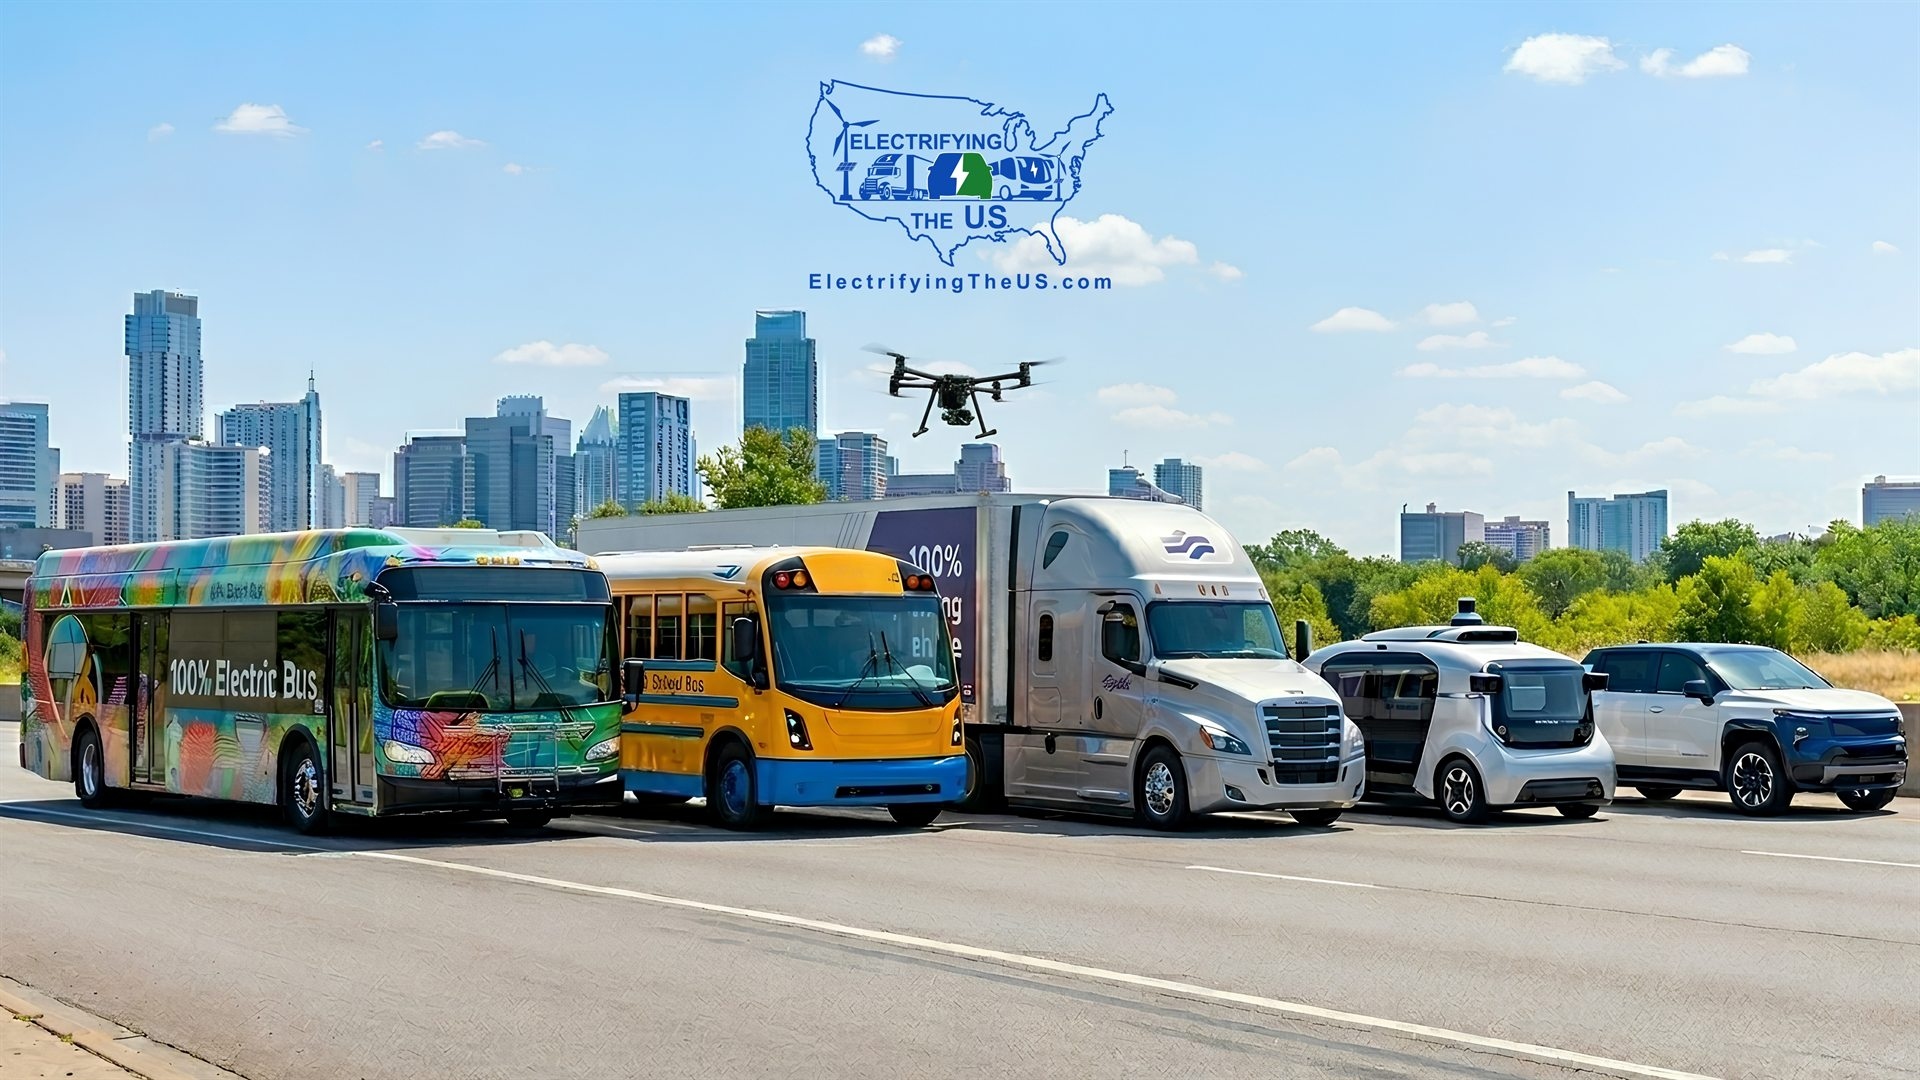
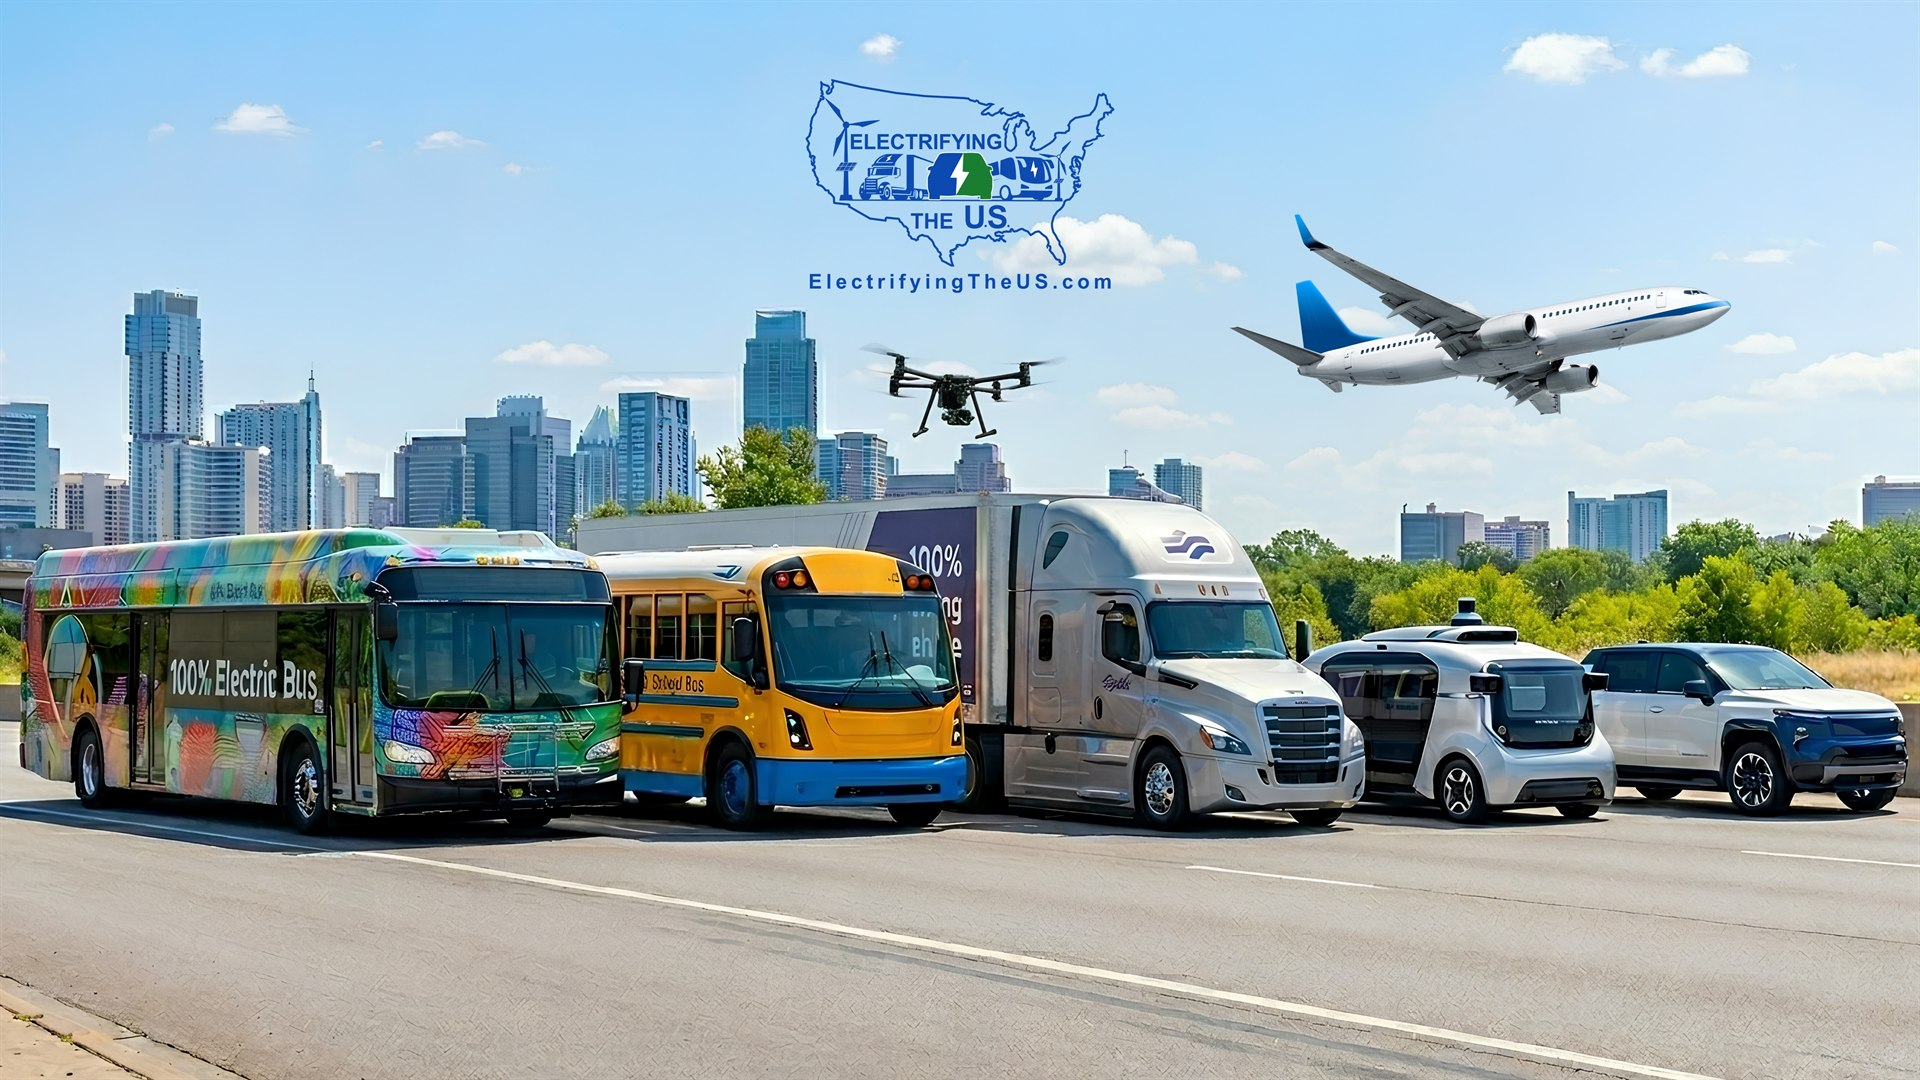
content(blog): rewrite EV Charging 101 as a buyer's guide; new collage
- Rewrite the charging-101-levels post into a ~1,000-word consumer buyer's
  guide: how charging works, Levels 1/2/3, home setup + installation steps,
  utility rebates, "will your electric bill increase?", public/apartment/
  workplace charging, and commuting vs. road trips. New title, excerpt,
  date, read time; OG title/description updated to match.
- Replace the full-width multimodal collage with the updated frame that adds
  electric aviation (downscaled to 1920x1080).

Changed region(s): [[0.6562, 0.2139, 0.9062, 0.3972]]

diff --git a/src/data/blog-posts.ts b/src/data/blog-posts.ts
@@ -215,28 +215,138 @@ Take a fresh look. The facts have changed — and so has the opportunity. **Run 
   },
   {
     slug: "charging-101-levels",
-    title: "Charging 101: Level 1 vs. Level 2 vs. DC Fast",
-    excerpt: "Which charger fits your life? A plain-English guide to speeds, connectors, and costs.",
+    title: "EV Charging 101: What U.S. Drivers Need to Know Before Buying an Electric Vehicle",
+    excerpt:
+      "A beginner's guide to EV charging for U.S. drivers: how home and public charging work, charging levels, real costs, rebates, and the right setup for you.",
     category: "EV 101",
-    date: "May 12, 2026",
+    date: "June 25, 2026",
     author: "Maya Chen",
-    readTime: "4 min read",
+    readTime: "5 min read",
     image: evCharging,
-    content: `Charging an EV is simpler than it sounds. There are three main "levels," and most drivers use a mix depending on the situation.
+    content: `Thinking about going electric? Before you compare models, range, or price, answer one question first: how — and where — will you charge?
 
-## Level 1 (120V)
-A standard wall outlet. It adds about **3–5 miles of range per hour** — slow, but perfectly fine for overnight top-ups if you don't drive far each day.
+Charging is the part of EV ownership that feels most unfamiliar to first-time buyers. The good news: once you understand a few basics, it's simpler than pumping gas, and for most people it mostly happens while they sleep. This beginner-friendly guide to EV charging 101 walks through how EV charging works, what the charging levels mean, what it costs, and how to pick the best EV charging setup for your life. If you're new to all this, it's the EV charging for beginners overview to start with.
 
-## Level 2 (240V)
-The everyday workhorse, found at homes, workplaces, and public stations. It delivers **~20–40 miles of range per hour**, fully charging most EVs overnight.
+## Why charging matters before you buy
 
-## DC Fast Charging
-Public fast chargers can take you from **10% to 80% in about 20–40 minutes** — ideal for road trips.
+Your charging situation shapes which EV makes sense — and how happy you'll be with it. A driver with a garage and a short commute has very different needs than someone parking on the street at an apartment.
 
-## A note on connectors
-The industry is converging on the **NACS** (Tesla-style) standard, while **CCS** remains widely used. Most new EVs and adapters support both, so compatibility is rarely an issue.
+Answering "where will I plug in?" up front helps you:
 
-The takeaway: charge at home for daily driving, and lean on fast charging for longer trips.`,
+- Decide how much range you actually need.
+- Budget for any home charger or installation.
+- Know whether you'll rely on public charging.
+
+Get this right and EV ownership feels effortless. Skip it, and even a great car can feel inconvenient.
+
+## How EV charging works, in plain terms
+
+An EV is basically a big battery on wheels. Charging just means refilling that battery with electricity — the same electricity that powers your home.
+
+When you plug in, power flows from the outlet or charger into the car. The bigger the power source, the faster the battery fills. That's the whole idea behind how EV charging works — the "levels" below just deliver different amounts of power.
+
+You don't need to charge to 100% every time, and you rarely start from empty. Most drivers "top up" — plugging in at home and adding back the miles they used that day, like recharging a phone overnight.
+
+## EV charging levels: Level 1, Level 2, and Level 3
+
+There are three EV charging levels, and most people use a mix.
+
+### Level 1 charging (standard wall outlet)
+
+Level 1 charging uses a regular 120-volt household outlet — the same kind your toaster uses. It's the slowest option, adding roughly **3–5 miles of range per hour**.
+
+That sounds slow, but it adds up overnight. For drivers with short daily commutes or a plug-in hybrid, Level 1 can be all you need, with no special equipment required.
+
+### Level 2 charging (240-volt)
+
+Level 2 charging is the everyday workhorse. It uses a 240-volt circuit — the kind that powers a clothes dryer — and adds about **20–40 miles of range per hour**, enough to fully charge most EVs overnight.
+
+You'll find Level 2 chargers at homes, workplaces, shopping centers, and public lots. For most owners, a Level 2 home charger is the sweet spot.
+
+### Level 3 charging (DC fast charging)
+
+Level 3 charging — usually called **DC fast charging** — is the quickest. Public fast chargers can take many EVs from about **10% to 80% in roughly 20–40 minutes**.
+
+DC fast charging is built for road trips and quick stops, not daily use, and it costs the most per mile. You won't install one at home (it needs commercial-grade power), but it's good to know it's there when you travel.
+
+## Home EV charging setup
+
+For most owners, home is where the majority of charging happens. Here's what to consider for your home EV charging setup.
+
+### Outlet and panel requirements
+
+- **Level 1:** any standard outlet works — just plug in the cordset that comes with the car.
+- **Level 2:** needs a 240-volt circuit. Many homes have capacity already; older panels may need an upgrade. An electrician can confirm.
+
+### Charger options
+
+For Level 2, you'll choose a home charging station (sometimes called an EVSE). Options vary by charging speed, cord length, indoor/outdoor rating, and whether it's "smart."
+
+### EV charger installation steps
+
+A typical EV charger installation looks like this:
+
+1. Have an electrician assess your panel and capacity.
+2. Choose a Level 2 charger that fits your car and parking spot.
+3. Permit and install the dedicated circuit and unit.
+4. Test it, then set up any app or scheduling features.
+
+### Smart charging considerations
+
+Many Level 2 chargers are "smart" — they connect to Wi-Fi and let you schedule charging for off-peak hours, track usage, and sometimes join utility programs. Scheduling charging for late at night often means cheaper power and an easier load on the grid.
+
+### Utility rebates and incentives
+
+This is where many buyers leave money on the table. **EV charging rebates** and **utility incentives** can offset the cost of a charger or installation, and some utilities offer lower overnight electricity rates for EV owners.
+
+Programs vary widely by state and utility, so check what's available where you live before you buy a charger. Our [Rebates & Incentives page](/rebates-incentives) is a good place to start.
+
+### Will your electric bill increase?
+
+Yes — but think of it as replacing a gas bill, not adding a new one. You'll use more electricity at home, so that line on your utility bill goes up. At the same time, you stop buying gasoline.
+
+For most drivers, charging at home costs noticeably less per mile than filling up, especially on an off-peak or EV rate. The net effect is usually money saved overall, even though the electric bill itself rises. To see the trade-off for your situation, run the numbers on our [Gas vs. EV Cost Calculator](/electricity-vs-gasoline).
+
+## Public EV charging and when it matters most
+
+**Public EV charging** fills the gaps when you're away from home — Level 2 chargers where you park during the day, and DC fast chargers along highways for longer trips.
+
+Public charging matters most if you:
+
+- Can't charge where you live.
+- Take frequent road trips.
+- Drive more miles than a single home charge can cover.
+
+Apps and in-car navigation help you find chargers, see real-time availability, and plan stops. On a road trip, charging to about 80% is usually the smart move, since charging slows down past that point.
+
+## Apartment, condo, and workplace charging
+
+No driveway? You're not stuck — it just takes a little more planning.
+
+- **Apartments and condos:** Some buildings already have shared chargers; others can add them, though it may mean working with a landlord or HOA. Look for nearby public Level 2 or fast charging as a backup, and ask before you buy.
+- **Workplace charging:** A growing number of employers offer Level 2 charging. Topping up during work hours can replace home charging entirely for many commuters.
+
+If you can't charge at home or work today, an EV can still work — just confirm reliable charging nearby first.
+
+## Daily commuting vs. road trips
+
+Most charging questions come down to how you actually drive.
+
+- **Daily commuting:** Home or workplace charging usually covers it. Plug in, top up, repeat. The more you drive — and the less public charging nearby — the closer home charging moves from "nice to have" to "must have."
+- **Road trips:** This is where DC fast charging and a little route planning come in. A few fast-charging stops, ideally lined up with meals or breaks, keep you moving.
+
+For a short-commute driver with a garage, home charging is a "nice to have" you'll love. For a high-mileage commuter without public options, it's closer to essential.
+
+## Matching the right setup to your life
+
+There's no single best EV charging setup for consumers — the right one depends on where you park and how far you drive.
+
+- **Garage + short commute:** Level 1 may be enough; Level 2 is a comfortable upgrade.
+- **Garage + lots of driving:** Level 2 at home is the sweet spot.
+- **Apartment or condo:** Lean on workplace and public charging; confirm options before buying.
+- **Frequent road-tripper:** Plan around DC fast charging corridors.
+
+Sort out your charging picture first, and the rest of the EV decision gets a lot easier. When you're ready to compare the costs, our [Gas vs. EV Cost Calculator](/electricity-vs-gasoline) and [Rebates & Incentives page](/rebates-incentives) help you see the real numbers for your situation.`,
   },
   {
     slug: "real-cost-of-going-electric-ev-savings-breakdown",

diff --git a/og-data.ts b/og-data.ts
@@ -29,8 +29,9 @@ export const OG_ENTRIES: OgEntry[] = [
   },
   {
     path: "/blog/charging-101-levels",
-    title: "Charging 101: Level 1 vs. Level 2 vs. DC Fast",
-    description: "Which charger fits your life? A plain-English guide to speeds, connectors, and costs.",
+    title: "EV Charging 101: What to Know Before You Buy an EV",
+    description:
+      "A beginner's guide to EV charging for U.S. drivers: home and public charging, charging levels, costs, rebates, and the right setup for you.",
     image: "/og/charging-101-levels.jpg",
   },
   {
